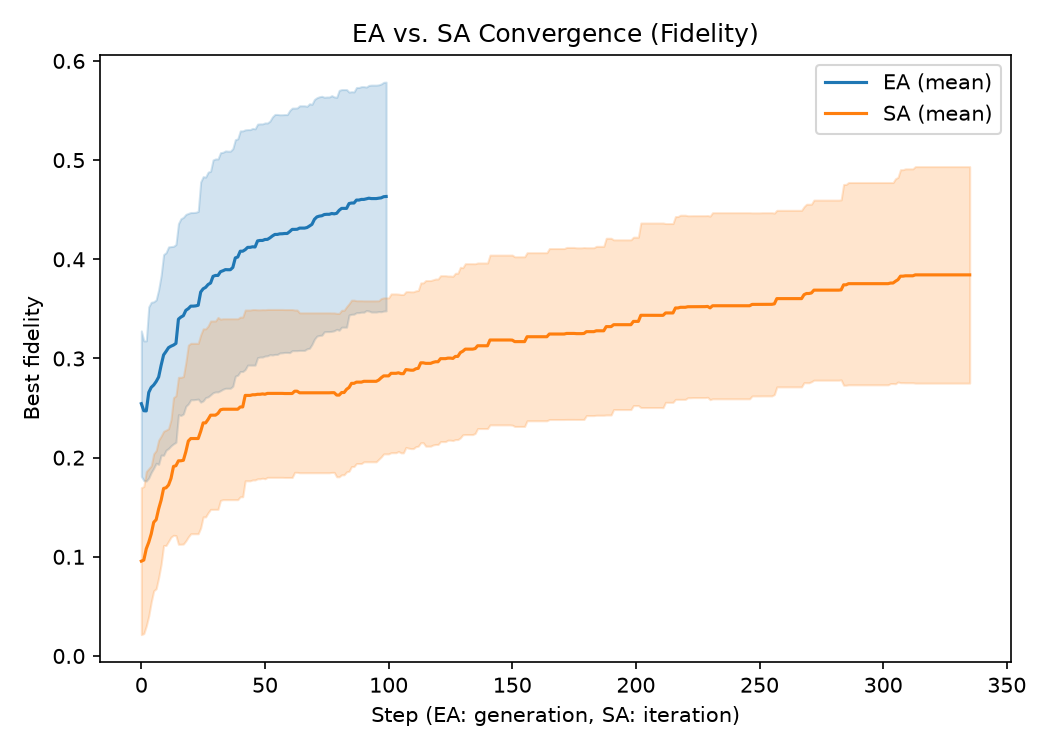
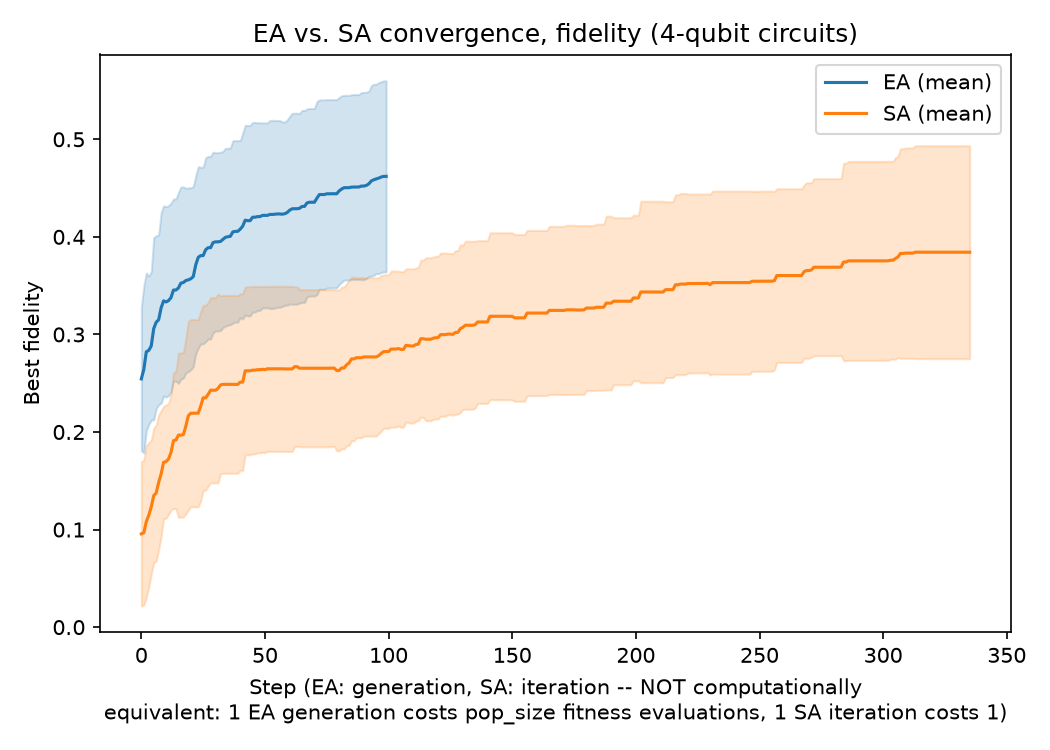
fix: run_experiments.py figures path, README completeness, .gitignore cleanup

diff --git a/experiments/run_experiments.py b/experiments/run_experiments.py
@@ -24,6 +24,7 @@ import sys
 import os
 import csv
 import json
+import shutil
 from datetime import datetime
 import numpy as np
 import matplotlib.pyplot as plt
@@ -73,6 +74,8 @@ SA_PARAMS = dict(
 
 RESULTS_DIR = os.path.join(SCRIPT_DIR, "..", "results")
 RUNS_DIR = os.path.join(RESULTS_DIR, "runs")
+FIGURES_DIR = os.path.join(RESULTS_DIR, "figures")
+os.makedirs(FIGURES_DIR, exist_ok=True)
 SUMMARY_PATH = os.path.join(RESULTS_DIR, "all_runs_summary.csv")
 os.makedirs(RUNS_DIR, exist_ok=True)
 
@@ -419,5 +422,18 @@ if __name__ == "__main__":
                               pop_size=EA_PARAMS["pop_size"])
     plot_final_comparison_bars(rows,
                                 os.path.join(RUN_DIR, "final_comparison_bars.png"))
+
+    # Also copy every plot to results/figures/ (unlike results/runs/, not
+    # gitignored) so this run's figures are actually committed to the
+    # repository -- see budget_matched_comparison.py for the same fix and
+    # rationale. plot_convergence()/plot_fitness_convergence() each
+    # produce more than one file (the base name plus _overlay and
+    # _overlay_by_evaluations variants), so all matching files in RUN_DIR
+    # are copied rather than listing every variant by hand.
+    import glob
+    for pattern in ("convergence*.png", "final_comparison_bars.png"):
+        for src in glob.glob(os.path.join(RUN_DIR, pattern)):
+            shutil.copy(src, os.path.join(FIGURES_DIR, os.path.basename(src)))
+    print(f"Also copied convergence and comparison plots to {FIGURES_DIR}")
 
     print(f"\nRun complete. All outputs for this run are in: {RUN_DIR}")

diff --git a/README.md b/README.md
@@ -57,12 +57,47 @@ thesis-code/
 │   ├── verify_crossover.py     Prints the exact gate-list origin for a
 │   │                           crossover example, to verify correctness
 │   │                           independently of the circuit diagram
-│   └── plot_results_evolution.py
-│                               Supporting chart showing how results changed
-│                               across development stages. Writes to
-│                               results/figures_debug/, not results/figures/,
-│                               since it is explicitly not part of the
-│                               thesis body (internal reference only).
+│   ├── plot_results_evolution.py
+│   │                           Supporting chart showing how results changed
+│   │                           across development stages. Writes to
+│   │                           results/figures_debug/, not results/figures/,
+│   │                           since it is explicitly not part of the
+│   │                           thesis body (internal reference only).
+│   ├── sweep_beta_extended_quick.py / sweep_beta_extended_full.py
+│   │                           Extends the beta sweep beyond the original
+│   │                           0.01-0.07 range up to 0.30, checking whether
+│   │                           the EA/SA gap ever reverses at higher beta
+│   │                           (it does not; both algorithms converge
+│   │                           toward a near-trivial ~1-gate solution
+│   │                           instead). _quick uses fewer repeats for a
+│   │                           fast first look; _full matches the main
+│   │                           sweep's statistical rigor.
+│   ├── tune_hyperparams_manual.py
+│   │                           Manual grid search over pop_size and
+│   │                           mutation_rate (literature-typical values,
+│   │                           e.g. population 200), complementing the
+│   │                           Optuna search. Reports fitness-per-1000-
+│   │                           evaluations alongside raw fitness, since
+│   │                           larger populations get proportionally more
+│   │                           compute and would otherwise look better
+│   │                           purely from that.
+│   ├── crossover_rate_ablation.py
+│   │                           Checks EA's crossover_rate=1.0 (current
+│   │                           default) against 0.8 (literature-typical,
+│   │                           cf. Sünkel et al. 2025's 0.85) on the
+│   │                           tuning seeds. No significant difference
+│   │                           found; current default retained.
+│   └── budget_matched_comparison.py
+│                               Controlled follow-up to the main comparison:
+│                               EA and SA are given the SAME total number of
+│                               fitness evaluations (SA's cooling_rate is
+│                               solved analytically so it no longer
+│                               terminates early), rather than each running
+│                               to its own natural termination. Also
+│                               records wall-clock time. Central finding:
+│                               SA significantly outperforms EA once
+│                               evaluation budget is equalised -- see
+│                               research_log.md Entry 17.
 ├── results/
 │   ├── runs/                   Output of each experiment run (gitignored --
 │   │                           regenerate by re-running the scripts)
@@ -115,6 +150,18 @@ python experiments/sweep_beta_floor_repeated.py
 # representative example; takes ~2 minutes)
 python experiments/plot_circuits.py
 python experiments/verify_crossover.py
+
+# Extended beta sweep (checks for an EA/SA crossover beyond beta=0.07)
+python experiments/sweep_beta_extended_quick.py   # fast, fewer repeats
+python experiments/sweep_beta_extended_full.py    # full statistical rigor
+
+# Manual hyperparameter ablations, complementing tune_hyperparams.py
+python experiments/tune_hyperparams_manual.py     # pop_size, mutation_rate grid
+python experiments/crossover_rate_ablation.py     # crossover_rate 1.0 vs 0.8
+
+# Budget-matched EA/SA comparison (controls for fitness-evaluation count
+# and records wall-clock time -- see research_log.md Entry 17)
+python experiments/budget_matched_comparison.py
 ```
 
 Each experiment script creates its own timestamped output folder under
